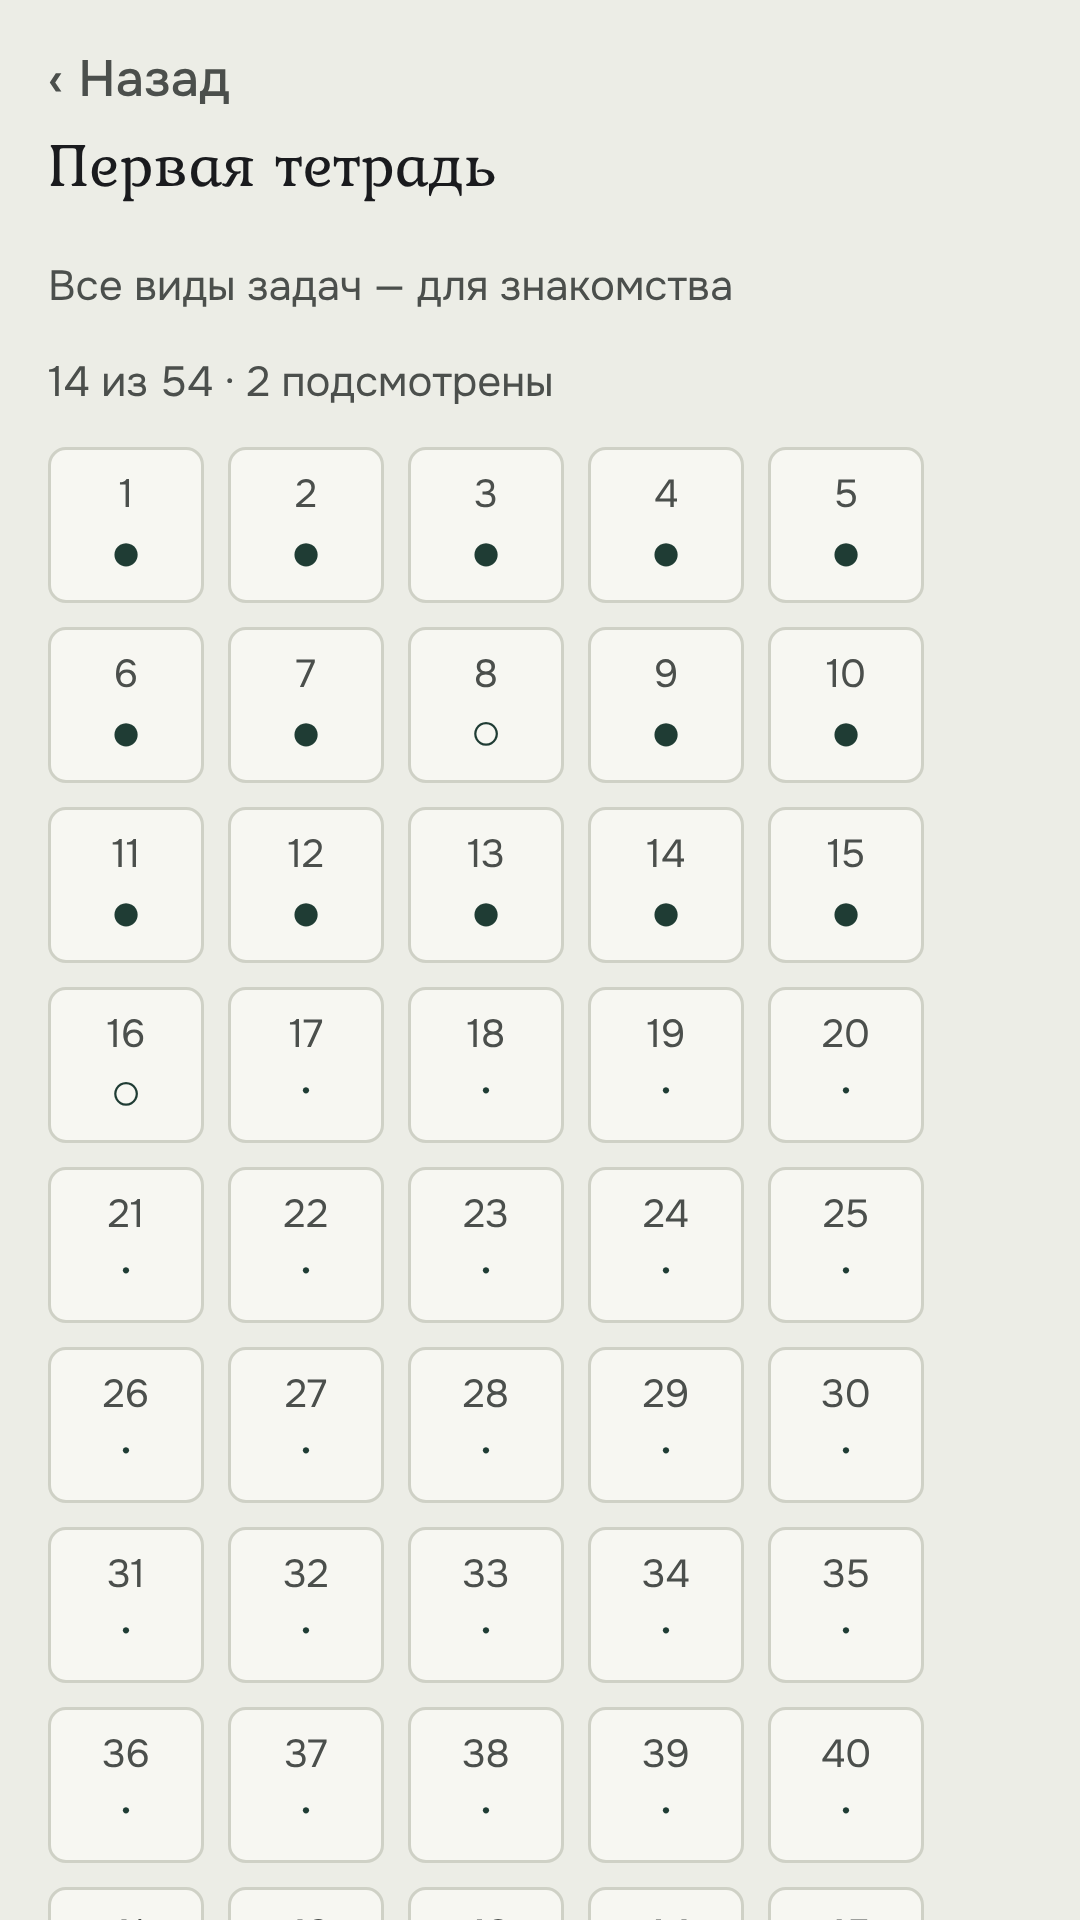
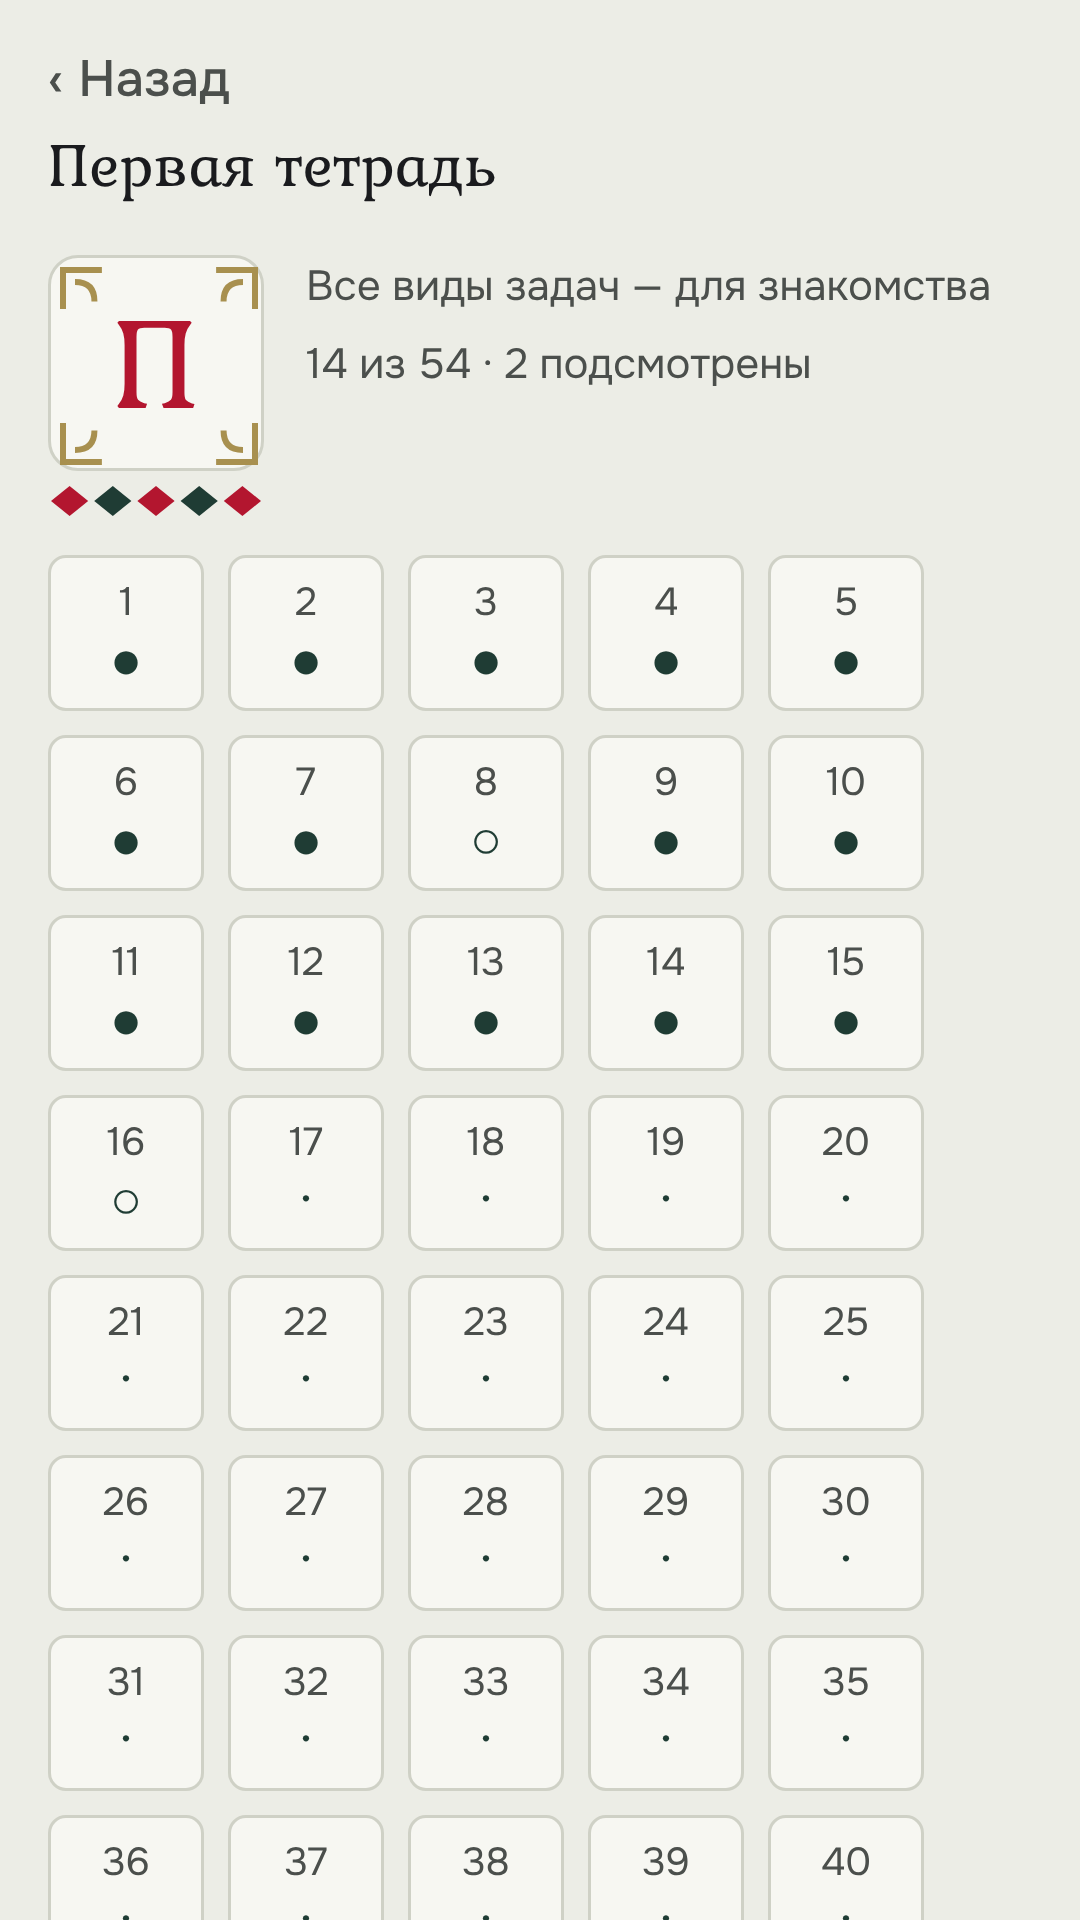
Обложки тетрадей: буквица темы и полоса-рушник кодом (src/ui/Cover.tsx) на главной и на экране тетради; «1 подсмотрена»
Claude-Session: https://claude.ai/code/session_01FnRrhwdtkVKEUuTF9mmFz1

diff --git a/src/ui/Cover.tsx b/src/ui/Cover.tsx
@@ -1,0 +1,33 @@
+// Обложка тетради (08-game-design.md, «Тетради»; 09-content.md, §7): буквица темы в рамке льняной нити и под ней
+// полоса-рушник — ромбы, кресты или ёлочка кумачом и елью, как полоса брендбука. Рисуется кодом, цвета — токены
+// студии (ADR устава 0023). Тетрадь «В следующих версиях» — бледная.
+import React from 'react';
+import { View } from 'react-native';
+import Svg, { Path } from 'react-native-svg';
+import { Initial } from './Initial';
+import { useLook } from './theme';
+
+/** Узоры полосы: ромб, крест, ёлочка — путь одного звена шириной `w` и высотой `h` с началом в `x`. */
+const MOTIFS: ((x: number, w: number, h: number) => string)[] = [
+  (x, w, h) => `M ${x + w / 2} 1 L ${x + w - 1} ${h / 2} L ${x + w / 2} ${h - 1} L ${x + 1} ${h / 2} Z`,
+  (x, w, h) => `M ${x + w * 0.35} 1 H ${x + w * 0.65} V ${h * 0.35} H ${x + w - 1} V ${h * 0.65} H ${x + w * 0.65} V ${h - 1} H ${x + w * 0.35} V ${h * 0.65} H ${x + 1} V ${h * 0.35} H ${x + w * 0.35} Z`,
+  (x, w, h) => `M ${x + 1} ${h - 1} L ${x + w / 2} 1 L ${x + w - 1} ${h - 1} L ${x + w - 3} ${h - 1} L ${x + w / 2} 5 L ${x + 3} ${h - 1} Z`,
+];
+
+export function Cover({ initial, motif, size = 56, dim = false, testID }: { initial: string; motif: number; size?: number; dim?: boolean; testID?: string }) {
+  const look = useLook();
+  const h = Math.round(size * 0.16);
+  const n = 5;
+  const w = size / n;
+  const draw = MOTIFS[motif % MOTIFS.length];
+  return (
+    <View style={{ width: size, gap: 4, opacity: dim ? 0.45 : 1 }} testID={testID} accessible={false}>
+      <Initial letter={initial} size={size} />
+      <Svg width={size} height={h}>
+        {Array.from({ length: n }, (_, i) => (
+          <Path key={i} d={draw(i * w, w, h)} fill={i % 2 ? look.c.spruce : look.c.kumach} />
+        ))}
+      </Svg>
+    </View>
+  );
+}

diff --git a/src/screens/NotebookScreen.tsx b/src/screens/NotebookScreen.tsx
@@ -11,6 +11,7 @@ import { prepareRewarded, rewardedReady, TENS, useMoney, watchForTens } from '..
 import { counts } from '../state/progress';
 import { askRating } from '../state/rate';
 import type { Game } from '../state/game';
+import { Cover } from '../ui/Cover';
 import { Button, Header, Txt } from '../ui/kit';
 import { FONTS } from '../ui/fonts';
 import { R, themed } from '../ui/theme';
@@ -50,8 +51,13 @@ export function NotebookScreen({ game, book }: { game: Game; book: string }) {
   return (
     <ScrollView contentContainerStyle={styles.wrap}>
       <Header title={b.title} onBack={() => setScreen({ name: 'home' })} back={T.task.back} />
-      <Txt dim>{b.blurb}</Txt>
-      <Txt dim testID="notebook-progress">{c.done === b.tasks.length ? T.notebook.done : T.home.progress(c.done, b.tasks.length, c.peeked)}</Txt>
+      <View style={styles.head}>
+        <Cover initial={b.initial} motif={b.motif} size={72} />
+        <View style={{ flex: 1, gap: 6 }}>
+          <Txt dim>{b.blurb}</Txt>
+          <Txt dim testID="notebook-progress">{c.done === b.tasks.length ? T.notebook.done : T.home.progress(c.done, b.tasks.length, c.peeked)}</Txt>
+        </View>
+      </View>
       {locked ? <Txt dim testID="notebook-opened">{T.money.opened(opened, b.tasks.length)}</Txt> : null}
       <View style={styles.grid}>
         {b.tasks.map((id, i) => {
@@ -87,6 +93,7 @@ export function NotebookScreen({ game, book }: { game: Game; book: string }) {
 const useStyles = themed((c, z) =>
   StyleSheet.create({
     wrap: { padding: 16, gap: 12, backgroundColor: c.linen, flexGrow: 1 },
+    head: { flexDirection: 'row', gap: 14, alignItems: 'flex-start' },
     grid: { flexDirection: 'row', flexWrap: 'wrap', gap: 8 },
     cell: { width: z(52), height: z(52), borderRadius: R.tile, backgroundColor: c.paper, borderWidth: 1, borderColor: c.line, alignItems: 'center', justifyContent: 'center' },
     cellLocked: { backgroundColor: c.cell, borderColor: c.cell },

diff --git a/src/screens/HomeScreen.tsx b/src/screens/HomeScreen.tsx
@@ -10,6 +10,7 @@ import { counts } from '../state/progress';
 import { shareOrCopy } from '../state/share';
 import type { Game } from '../state/game';
 import { Button, Card, Txt } from '../ui/kit';
+import { Cover } from '../ui/Cover';
 import { Initial } from '../ui/Initial';
 import { S, themed, useLook } from '../ui/theme';
 
@@ -64,9 +65,12 @@ export function HomeScreen({ game }: { game: Game }) {
         const c = counts(results, b.tasks);
         return (
           <Pressable key={b.key} testID={`notebook-${b.key}`} disabled={!open} onPress={() => setScreen({ name: 'notebook', key: b.key })} style={({ pressed }) => [styles.book, !open && styles.closed, pressed && { opacity: 0.8 }]}>
-            <Txt style={{ fontWeight: '600' }}>{b.title}</Txt>
-            <Txt dim>{b.blurb}</Txt>
-            <Txt dim>{open ? T.home.progress(c.done, b.tasks.length, c.peeked) : T.home.later}</Txt>
+            <Cover initial={b.initial} motif={b.motif} size={look.z(48)} dim={!open} testID={`cover-${b.key}`} />
+            <View style={{ flex: 1, gap: 4 }}>
+              <Txt style={{ fontWeight: '600' }}>{b.title}</Txt>
+              <Txt dim>{b.blurb}</Txt>
+              <Txt dim>{open ? T.home.progress(c.done, b.tasks.length, c.peeked) : T.home.later}</Txt>
+            </View>
           </Pressable>
         );
       })}
@@ -98,7 +102,7 @@ const useStyles = themed((c, z) =>
     wrap: { padding: 16, gap: 12, backgroundColor: c.linen, flexGrow: 1 },
     title: { flexDirection: 'row', alignItems: 'center', gap: 14, paddingVertical: 8 },
     row: { flexDirection: 'row', gap: 10 },
-    book: { backgroundColor: c.paper, borderRadius: 10, borderWidth: 1, borderColor: c.line, padding: 14, gap: 4 },
+    book: { backgroundColor: c.paper, borderRadius: 10, borderWidth: 1, borderColor: c.line, padding: 14, gap: 14, flexDirection: 'row', alignItems: 'flex-start' },
     closed: { backgroundColor: c.cell, borderColor: c.cell },
   }),
 );

diff --git a/tools/content/build.ts b/tools/content/build.ts
@@ -30,6 +30,7 @@ const RU = /^[а-яё]+(?:-[а-яё]+)*$/;
 
 interface Book {
   key: string;
+  initial?: string;
   title: string;
   blurb: string;
   free?: boolean | string;
@@ -190,11 +191,15 @@ export function build(root = ROOT, opts: { release?: boolean; today?: string } =
   // версиях»; бесплатная — обязательно
   const unchecked = (key: string) => recs.filter(r => r.notebooks?.includes(key) && r.review !== 'checked').length;
   const size = (key: string) => recs.filter(r => r.notebooks?.includes(key)).length;
-  const notebooks: Notebook[] = books.map(b => {
+  const notebooks: Notebook[] = books.map((b, i) => {
+    const initial = String(b.initial ?? b.title[0] ?? '').toUpperCase();
+    if (!/^[А-ЯЁ]$/.test(initial)) errors.push(`тетрадь ${b.key}: буквица обложки «${initial}» — не одна русская буква`);
     const left = opts.release ? unchecked(b.key) + (size(b.key) < NOTEBOOK_MIN && !yes(b.free) ? 1 : 0) : 0;
     if (left && yes(b.free)) errors.push(`тетрадь ${b.key}: бесплатная, а не сверено ${left} — в выпуск она идёт целиком`);
     return {
       key: b.key,
+      initial,
+      motif: i % 3,
       title: b.title,
       blurb: b.blurb,
       free: yes(b.free),

diff --git a/tools/test/content.test.ts b/tools/test/content.test.ts
@@ -107,6 +107,10 @@ describe('сборка content/', () => {
     // среда без старых слов — конец пословицы (bukvitsa#6), не пословица с пропуском
     for (const [d, id] of days) if (weekday(d) === 2) expect(['old-word', 'ending']).toContain(kinds.get(id) ?? '');
   });
+  test('обложки: у каждой тетради буквица — одна заглавная русская буква; соседние тетради — разные узоры', () => {
+    for (const b of pack.notebooks) expect(b.initial).toMatch(/^[А-ЯЁ]$/);
+    for (let i = 1; i < pack.notebooks.length; i++) expect(pack.notebooks[i].motif).not.toBe(pack.notebooks[i - 1].motif);
+  });
   test('первая тетрадь бесплатна; в ней пять видов и «Тайнопись» (конец пословицы — только в задаче дня)', () => {
     const first = pack.notebooks.find(b => b.key === 'first')!;
     expect(first.free).toBe(true);

diff --git a/tools/e2e/browser.ts b/tools/e2e/browser.ts
@@ -201,7 +201,7 @@ try {
     await tap(page, 'back');
   }
   await snap(page, 'notebook');
-  check((await page.getByTestId('notebook-progress').textContent())?.includes('5 из') === true && (await page.getByTestId('notebook-progress').textContent())?.includes('1 подсмотрены') === true, 'тетрадь: 5 решены, 1 подсмотрена');
+  check((await page.getByTestId('notebook-progress').textContent())?.includes('5 из') === true && (await page.getByTestId('notebook-progress').textContent())?.includes('1 подсмотрена') === true, 'тетрадь: 5 решены, 1 подсмотрена');
   await tap(page, 'back');
 
   // деньги (specs/2026-10-money.md): ролик по желанию открывает десять задач закрытой тетради; перед первым

diff --git a/src/i18n/index.ts b/src/i18n/index.ts
@@ -54,7 +54,7 @@ export const T = {
     copied: 'Скопировано',
     beyond: 'Новые задачи дня — в новой версии игры',
     notebooks: 'Тетради',
-    progress: (done: number, total: number, peeked: number) => `${done} из ${total}${peeked ? ` · ${peeked} подсмотрены` : ''}`,
+    progress: (done: number, total: number, peeked: number) => `${done} из ${total}${peeked ? ` · ${peeked} ${peeked % 10 === 1 && peeked % 100 !== 11 ? 'подсмотрена' : 'подсмотрены'}` : ''}`,
     later: 'В следующих версиях',
     archive: 'Архив',
     settings: 'Настройки',

diff --git a/src/content/types.ts b/src/content/types.ts
@@ -5,6 +5,10 @@ import type { Task } from '../engine/types';
 
 export interface Notebook {
   key: string;
+  /** буквица обложки — заглавная буква темы (content/notebooks.yaml) */
+  initial: string;
+  /** узор полосы-рушника под буквицей: 0 — ромбы, 1 — кресты, 2 — ёлочка (по порядку тетради) */
+  motif: number;
   title: string;
   blurb: string;
   free: boolean;

diff --git a/docs/08-game-design.md b/docs/08-game-design.md
@@ -159,7 +159,9 @@
 
 - Тетрадь — **около 40 задач** одной темы, одного или нескольких видов; у тетради —
   обложка (узорная буква и орнамент кодом, [`09-content.md`](09-content.md), «Обложки»),
-  название и строка «что внутри».
+  название и строка «что внутри». Обложка — буквица темы (`initial` в `content/notebooks.yaml`: «П» — первая,
+  «Т» — труд, «Д» — дом…) и под ней полоса-рушник: ромбы, кресты или ёлочка по порядку тетради (`src/ui/Cover.tsx`);
+  на главной — маленькая, на экране тетради — крупная; тетрадь «В следующих версиях» — бледная.
 - К 1.0 — **восемь тетрадей** (гипотеза): «Первая тетрадь» (все пять видов,
   знакомство), «О труде и лени», «О доме и семье», «О слове и молчании», «Загадки
   о природе», «Загадки о доме», «Старые слова: вещи», «Старые слова: люди».

diff --git a/docs/journal/2026-11.md b/docs/journal/2026-11.md
@@ -128,3 +128,7 @@
   задачи дня с 01.12.2026 по 08.02.2027, 70 дней — выпуск около 7 декабря плюс запас 60 дней), по строке на запись со
   ссылкой на Викитеку и файлом. Попутно: у `word-0001` в «Откуда это» было «Отсюда и название игры» — после
   переименования в «Складно» неверно, фраза убрана (запись не выпущена, `version` прежняя).
+- **Обложки тетрадей** (ветка `claude/covers`, 09.11.2026): буквица темы (`initial` в `notebooks.yaml`) в рамке
+  льняной нити и полоса-рушник под ней — ромбы, кресты или ёлочка (`src/ui/Cover.tsx`); на главной и на экране тетради.
+  Попутно: «1 подсмотрены» → «1 подсмотрена». Лист сверки выложен задачей #34 (владелец отмечает галочками, агент
+  переносит отметки в файлы PR-ом); в нём же — пять записей, которые стоит проверить первыми.

diff --git a/docs/09-content.md b/docs/09-content.md
@@ -224,7 +224,8 @@ notes: >
 ## 7. Обложки, звук, шрифты
 
 - **Обложки тетрадей и узорные буквы** рисуются кодом: SVG по мотивам брендбука
-  (нити-цвета, орнаментная полоса), буква — из шрифта Kurale. Никаких изображений из
+  (нити-цвета, орнаментная полоса), буква — из шрифта Kurale; буква обложки — поле `initial` тетради в
+  `notebooks.yaml` (одна заглавная русская буква, иначе ошибка сборки). Никаких изображений из
   генераторов и чужих иллюстраций; старинные буквицы из рукописей — только если найдена
   конкретная страница общественного достояния с правом на воспроизведение (вопрос В5;
   **решено 08.11.2026, #8: к 1.0 — только кодом**, поиск страниц — после 1.0).
